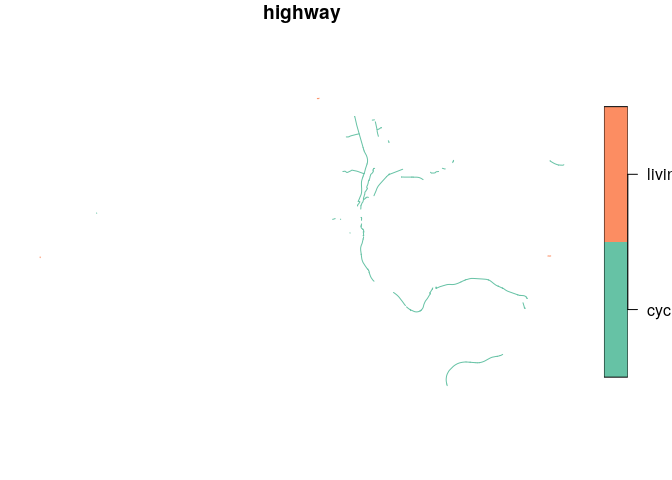
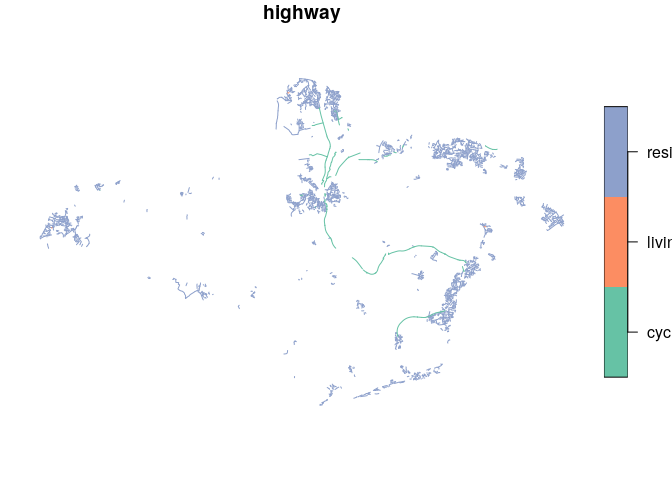
Tidy readme

diff --git a/README.md b/README.md
@@ -85,6 +85,13 @@ You can install the development version from
 devtools::install_github("ITSLeeds/osmextractr")
 ```
 
+Load the package with:
+
+``` r
+library(sf)
+#> Linking to GEOS 3.8.0, GDAL 3.0.4, PROJ 7.0.0
+```
+
 ## Usage
 
 Give `osmextractr` the name of a geofabrik zone and it will download and
@@ -95,57 +102,32 @@ columns from the `.pbf` files not imported by default, including
 `maxspeed`, `lanes` and `oneway` (the attributes to include can be set
 with `attributes` argument):
 
-The leitmotif of package is to help the users to read and download
-extracts of OpenStreetMap data stored by several providers, such as
-[Geofabrik](http://download.geofabrik.de/) or
-[bbbike](https://download.bbbike.org/osm/bbbike/). The provider’s data
-are stored using `sf` objects that summarize the most important
-characteristics of each geographic zone, such as the name and the url of
-the pbf file.
+The package supports downloading, reading and extracting OpenStreetMap
+data from various providers. A list of providers can be found at
+[wiki.openstreetmap.org](https://wiki.openstreetmap.org/wiki/Processed_data_providers).
+The first provider supported was
+[Geofabrik](http://download.geofabrik.de/).
+<!-- The second was [bbbike](https://download.bbbike.org/osm/bbbike/). -->
+The package can be extended to support additional providers, as seen in
+[code](https://github.com/ITSLeeds/osmextractr/commit/be3b48e7ed7ccd957e988bacad053161247b206d)
+that adds a working test provider.
+
+Providers break the world into zones. These zones are represented as
+`sf` objects that summarize the most important characteristics of each
+geographic zone, such as the name and the url of the pbf file, as
+illustrated in the code chunk below.
 
 ``` r
-library(sf)
-#> Linking to GEOS 3.8.0, GDAL 3.0.4, PROJ 7.0.0
-osmextractr::geofabrik_zones[, c(2, 8)]
-#> Simple feature collection with 430 features and 2 fields
-#> geometry type:  MULTIPOLYGON
-#> dimension:      XY
-#> bbox:           xmin: -180 ymin: -90 xmax: 180 ymax: 85.04177
-#> geographic CRS: WGS 84
-#> First 10 features:
-#>           name
-#> 1  Afghanistan
-#> 2       Africa
-#> 3      Albania
-#> 4      Alberta
-#> 5      Algeria
-#> 6         Alps
-#> 7       Alsace
-#> 8      Andorra
-#> 9       Angola
-#> 10  Antarctica
-#>                                                                          pbf
-#> 1              https://download.geofabrik.de/asia/afghanistan-latest.osm.pbf
-#> 2                        https://download.geofabrik.de/africa-latest.osm.pbf
-#> 3                https://download.geofabrik.de/europe/albania-latest.osm.pbf
-#> 4  https://download.geofabrik.de/north-america/canada/alberta-latest.osm.pbf
-#> 5                https://download.geofabrik.de/africa/algeria-latest.osm.pbf
-#> 6                   https://download.geofabrik.de/europe/alps-latest.osm.pbf
-#> 7          https://download.geofabrik.de/europe/france/alsace-latest.osm.pbf
-#> 8                https://download.geofabrik.de/europe/andorra-latest.osm.pbf
-#> 9                 https://download.geofabrik.de/africa/angola-latest.osm.pbf
-#> 10                   https://download.geofabrik.de/antarctica-latest.osm.pbf
-#>                          geometry
-#> 1  MULTIPOLYGON (((62.47808 29...
-#> 2  MULTIPOLYGON (((11.60092 33...
-#> 3  MULTIPOLYGON (((19.37748 42...
-#> 4  MULTIPOLYGON (((-110.0051 4...
-#> 5  MULTIPOLYGON (((6.899245 37...
-#> 6  MULTIPOLYGON (((5.57178 48....
-#> 7  MULTIPOLYGON (((8.236555 48...
-#> 8  MULTIPOLYGON (((1.516233 42...
-#> 9  MULTIPOLYGON (((20.72182 -1...
-#> 10 MULTIPOLYGON (((-180 -90, 1...
+names(geofabrik_zones)
+#>  [1] "id"               "name"             "parent"           "level"           
+#>  [5] "iso3166_1_alpha2" "iso3166_2"        "pbf_file_size"    "pbf"             
+#>  [9] "bz2"              "shp"              "pbf.internal"     "history"         
+#> [13] "taginfo"          "updates"          "geometry"
+st_drop_geometry(geofabrik_zones[1:3, c(2, 8)])
+#>          name                                                           pbf
+#> 1 Afghanistan https://download.geofabrik.de/asia/afghanistan-latest.osm.pbf
+#> 2      Africa           https://download.geofabrik.de/africa-latest.osm.pbf
+#> 3     Albania   https://download.geofabrik.de/europe/albania-latest.osm.pbf
 ```
 
 ## Load package
@@ -254,32 +236,7 @@ osmext_check_pattern("US", match_by = "iso3166_2")
 #> [46] "US-UT" "US-VT" "US-VA" "US-WA" "US-WV" "US-WI" "US-WY"
 osmext_check_pattern("Palestine")
 #> [1] "Israel and Palestine"
-osmext_check_pattern("Israel", full_row = TRUE)
-#> Simple feature collection with 1 feature and 14 fields
-#> geometry type:  MULTIPOLYGON
-#> dimension:      XY
-#> bbox:           xmin: 34.07929 ymin: 29.37711 xmax: 35.91531 ymax: 33.35091
-#> geographic CRS: WGS 84
-#>                       id                 name parent level iso3166_1_alpha2
-#> 151 israel-and-palestine Israel and Palestine   asia     2            PS IL
-#>     iso3166_2 pbf_file_size
-#> 151      <NA>      82361911
-#>                                                                        pbf
-#> 151 https://download.geofabrik.de/asia/israel-and-palestine-latest.osm.pbf
-#>                                                                        bz2
-#> 151 https://download.geofabrik.de/asia/israel-and-palestine-latest.osm.bz2
-#>                                                                             shp
-#> 151 https://download.geofabrik.de/asia/israel-and-palestine-latest-free.shp.zip
-#>                                                                                     pbf.internal
-#> 151 https://osm-internal.download.geofabrik.de/asia/israel-and-palestine-latest-internal.osm.pbf
-#>                                                                                   history
-#> 151 https://osm-internal.download.geofabrik.de/asia/israel-and-palestine-internal.osh.pbf
-#>                                                     taginfo
-#> 151 https://taginfo.geofabrik.de/asia/israel-and-palestine/
-#>                                                             updates
-#> 151 https://download.geofabrik.de/asia/israel-and-palestine-updates
-#>                           geometry
-#> 151 MULTIPOLYGON (((34.64563 32...
+israel_sf = osmext_check_pattern("Israel", full_row = TRUE)
 ```
 
 The input `place` can be also specified using an `sfc_POINT` object with
@@ -334,10 +291,10 @@ osmext_match("Isle Wight", max_string_dist = 3)
 The simplest example:
 
 ``` r
-iow = osmext_match("Isle of Wight")
+iow_details = osmext_match("Isle of Wight")
 osmext_download(
-  file_url = iow$url, 
-  file_size = iow$file_size
+  file_url = iow_details$url, 
+  file_size = iow_details$file_size
 )
 #> [1] "/mnt/57982e2a-2874-4246-a6fe-115c199bc6bd/data/osm/geofabrik_isle-of-wight-latest.osm.pbf"
 ```
@@ -369,63 +326,13 @@ The function `osmext_get()` downloads (if not already downloaded) and
 reads-in data from OSM extract providers as an `sf` object:
 
 ``` r
-(iow = osmext_get("Isle of Wight", stringsAsFactors = FALSE))
+iow = osmext_get("Isle of Wight", stringsAsFactors = FALSE)
 #> Reading layer `lines' from data source `/mnt/57982e2a-2874-4246-a6fe-115c199bc6bd/data/osm/geofabrik_isle-of-wight-latest.gpkg' using driver `GPKG'
 #> Simple feature collection with 44365 features and 9 fields
 #> geometry type:  LINESTRING
 #> dimension:      XY
 #> bbox:           xmin: -5.401978 ymin: 43.35489 xmax: -0.175775 ymax: 50.89599
 #> geographic CRS: WGS 84
-#> Simple feature collection with 44365 features and 9 fields
-#> geometry type:  LINESTRING
-#> dimension:      XY
-#> bbox:           xmin: -5.401978 ymin: 43.35489 xmax: -0.175775 ymax: 50.89599
-#> geographic CRS: WGS 84
-#> First 10 features:
-#>    osm_id                 name     highway waterway aerialway barrier man_made
-#> 1     413             Lane End residential     <NA>      <NA>    <NA>     <NA>
-#> 2     415        Foreland Road   secondary     <NA>      <NA>    <NA>     <NA>
-#> 3     416          Steyne Road   secondary     <NA>      <NA>    <NA>     <NA>
-#> 4     698      Carpenters Road   secondary     <NA>      <NA>    <NA>     <NA>
-#> 5     701            Mill Road    tertiary     <NA>      <NA>    <NA>     <NA>
-#> 6     705       Downsview Road residential     <NA>      <NA>    <NA>     <NA>
-#> 7     706          Lincoln Way residential     <NA>      <NA>    <NA>     <NA>
-#> 8     709        Paddock Drive residential     <NA>      <NA>    <NA>     <NA>
-#> 9     710 Forelands Field Road residential     <NA>      <NA>    <NA>     <NA>
-#> 10    713         Howgate Road residential     <NA>      <NA>    <NA>     <NA>
-#>    z_order
-#> 1        3
-#> 2        6
-#> 3        6
-#> 4        6
-#> 5        4
-#> 6        3
-#> 7        3
-#> 8        3
-#> 9        3
-#> 10       3
-#>                                                                                                                 other_tags
-#> 1                                                      "lanes"=>"2","lit"=>"yes","maxspeed"=>"30 mph","surface"=>"asphalt"
-#> 2                    "lit"=>"yes","ref"=>"B3395","lanes"=>"2","surface"=>"asphalt","maxspeed"=>"30 mph","sidewalk"=>"both"
-#> 3                                       "lanes"=>"2","lit"=>"yes","maxspeed"=>"30 mph","ref"=>"B3395","surface"=>"asphalt"
-#> 4  "incline"=>"down","lanes"=>"2","lit"=>"yes","maxspeed"=>"30 mph","ref"=>"B3330","sidewalk"=>"left","surface"=>"asphalt"
-#> 5                                                       "lanes"=>"2","lit"=>"no","maxspeed"=>"30 mph","surface"=>"asphalt"
-#> 6                                                                                                                     <NA>
-#> 7                                                                                                                     <NA>
-#> 8                                                                                                                     <NA>
-#> 9                                                                      "designation"=>"public_footpath","prow_ref"=>"BB13"
-#> 10                  "bicycle"=>"yes","foot"=>"yes","horse"=>"yes","maxspeed"=>"30 mph","oneway"=>"no","surface"=>"asphalt"
-#>                          geometry
-#> 1  LINESTRING (-1.083348 50.68...
-#> 2  LINESTRING (-1.083348 50.68...
-#> 3  LINESTRING (-1.089935 50.68...
-#> 4  LINESTRING (-1.115375 50.69...
-#> 5  LINESTRING (-1.094493 50.68...
-#> 6  LINESTRING (-1.083304 50.68...
-#> 7  LINESTRING (-1.086146 50.68...
-#> 8  LINESTRING (-1.074056 50.68...
-#> 9  LINESTRING (-1.076458 50.68...
-#> 10 LINESTRING (-1.087919 50.68...
 class(iow)
 #> [1] "sf"         "data.frame"
 names(iow) # default variable names
@@ -591,16 +498,16 @@ iow_active_travel = osmext_get(
   "Isle of Wight", 
   extra_attributes = "ref", 
   osmext_verbose = TRUE, 
-  query = "SELECT * FROM 'lines' WHERE highway IN ('cycleway', 'living_street')"
+  query = "SELECT * FROM 'lines' WHERE highway IN ('cycleway', 'living_street', 'residential')"
 )
 #> The input place was matched with: Isle of Wight
 #> The chosen file was already detected in the download directory. Skip downloading.
 #> The corresponding gpkg file was already detected. Skip vectortranslate operations
 #> Reading layer `lines' from data source `/mnt/57982e2a-2874-4246-a6fe-115c199bc6bd/data/osm/geofabrik_isle-of-wight-latest.gpkg' using driver `GPKG'
-#> Simple feature collection with 143 features and 9 fields
+#> Simple feature collection with 2545 features and 9 fields
 #> geometry type:  LINESTRING
 #> dimension:      XY
-#> bbox:           xmin: -1.538843 ymin: 50.61815 xmax: -1.133171 ymax: 50.7592
+#> bbox:           xmin: -1.549514 ymin: 50.57872 xmax: -1.072414 ymax: 50.76727
 #> geographic CRS: WGS 84
 plot(iow_active_travel["highway"])
 ```
@@ -621,8 +528,11 @@ of the [OdBL licence](https://opendatacommons.org/licenses/odbl/) which
 states that
 
 > Any Derivative Database that You Publicly Use must be only under the
-> terms of: - i. This License; - ii. A later version of this License
-> similar in spirit to this
+> terms of:
+
+  - 1.  This License;
+
+  - 2.  A later version of this License similar in spirit to this
 
 ## Other approaches
 
